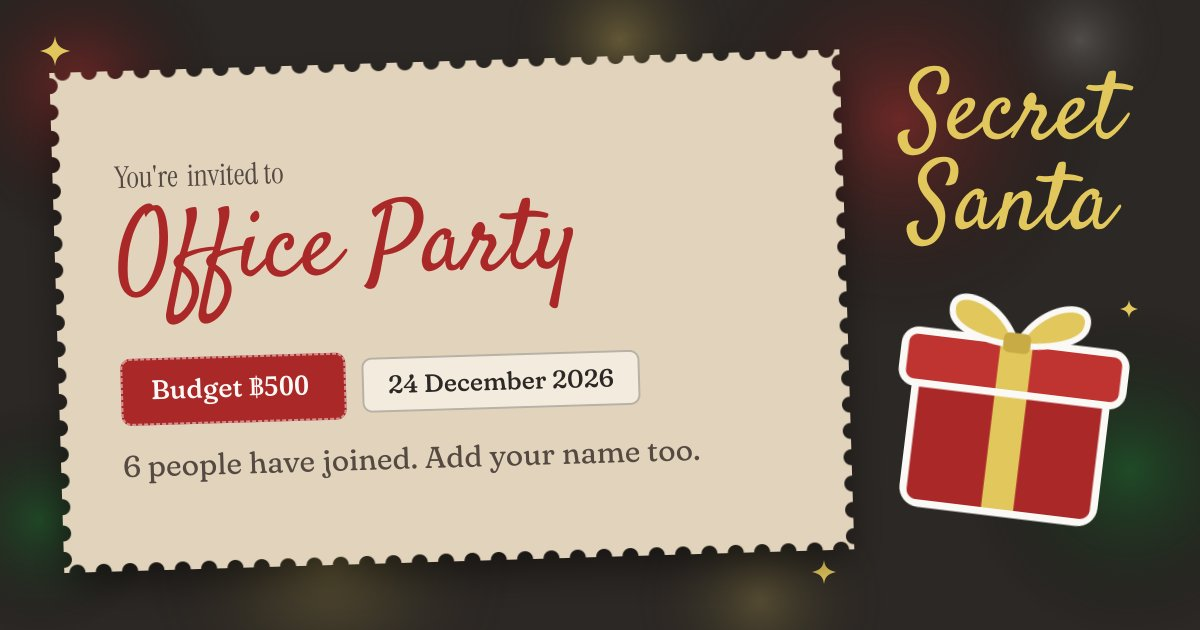
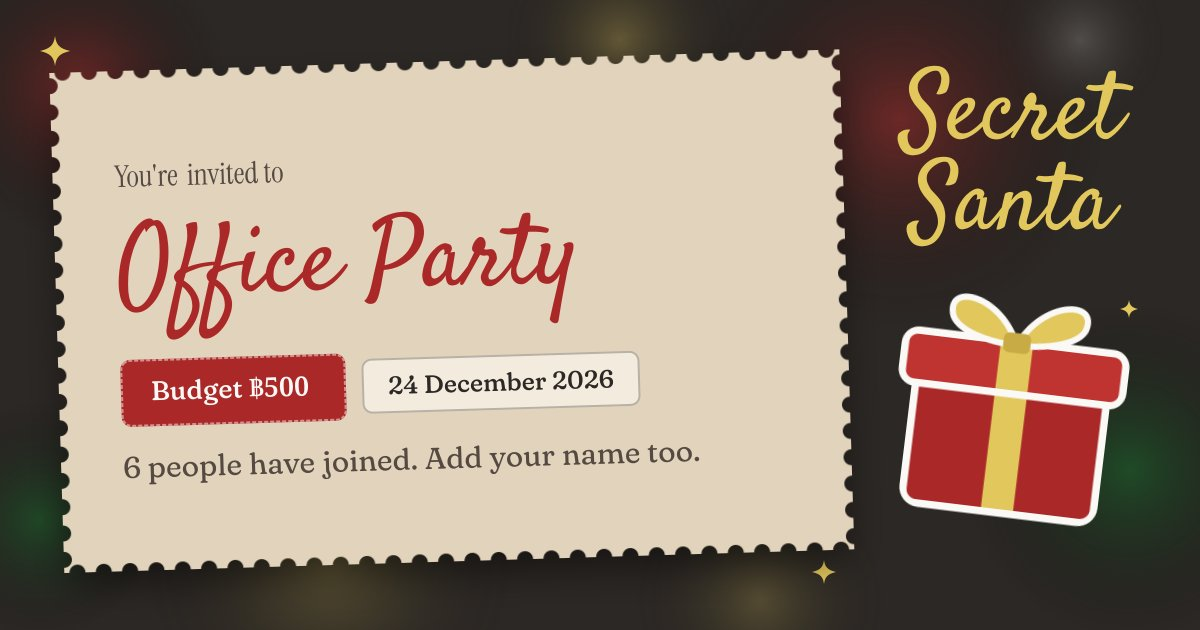
Even space round the invite card's name, and gray out pairs already kept apart
- Invite card: the name had 0-10px above it and 30-65px below, so it sat against "You're invited to".
  Fixed gaps that allow for the script's tall capitals now leave it the same space above and below,
  and a long name ("Chai Apae's / Secret santa #2") splits into two even lines instead of shrinking
  to one thin line with the card empty under it.
- Who shouldn't draw whom: with someone picked in one box, the other box grays out anyone already
  kept apart from them, marked "Already kept apart", and anyone already kept apart from everyone.
- README: the new link card, and the note about the pickers.

diff --git a/src/app/g/[id]/opengraph-image.tsx b/src/app/g/[id]/opengraph-image.tsx
@@ -7,13 +7,38 @@ export const alt = "An invitation to join a Secret Santa group";
 export const size = OG_SIZE;
 export const contentType = "image/png";
 
-/** Long names step down so they stay on the card. Charm draws Thai much larger than Satisfy, so Thai steps down further. */
-const nameSize = (name: string) => (name.length <= 10 ? 124 : name.length <= 16 ? 100 : name.length <= 26 ? 80 : 62) * (hasThai(name) ? 0.6 : 1);
+/**
+ * A long name splits into two lines of about the same length at the space nearest its middle
+ * ("Chai Apae's / Secret santa #2"), as the group page's title does, instead of shrinking to one thin
+ * line with the card empty below it. The card's renderer can't balance lines itself.
+ */
+function nameLines(name: string) {
+  if (name.length <= 16) return [name];
+  const spaces = [...name.matchAll(/ /g)].map((m) => m.index);
+  if (!spaces.length) return [name];
+  const at = spaces.reduce((a, b) => (Math.abs(b - name.length / 2) < Math.abs(a - name.length / 2) ? b : a));
+  return [name.slice(0, at), name.slice(at + 1)];
+}
+
+/** Long lines step down so they stay on the card. Charm draws Thai much larger than Satisfy, so Thai steps down further. */
+const nameSize = (lines: string[], thai: boolean) => {
+  const n = Math.max(...lines.map((l) => l.length));
+  // Two lines a little smaller, so the card keeps its margins.
+  return (n <= 10 ? 124 : n <= 16 ? 100 : n <= 22 ? 80 : 62) * (thai ? 0.6 : 1) * (lines.length > 1 ? 0.9 : 1);
+};
+
+// The script's letters reach well past its line box: Satisfy's capitals up into the line above and
+// Charm's Thai marks higher still. These leave the name the same clear space above as below.
+const GAP_ABOVE = (thai: boolean) => (thai ? 52 : 22);
+const GAP_BELOW = 34;
 
 /** The card a chat app shows when someone sends a group's invite link. */
 export default async function Image({ params }: { params: Promise<{ id: string }> }) {
   const [group, fonts] = await Promise.all([params.then((p) => getPublicGroup(p.id)), ogFonts()]);
   const name = group?.name ?? "Secret Santa";
+  const thai = hasThai(name);
+  const lines = nameLines(name);
+  const nameFont = nameSize(lines, thai);
   const joined = group?.members.length ?? 0;
   const foot = !group
     ? "Draw names. Keep the secret."
@@ -31,10 +56,14 @@ export default async function Image({ params }: { params: Promise<{ id: string }
       <Sparkle size={24} x={812} y={560} />
 
       <Stamp width={790} height={500} style={{ left: 56, top: 62, transform: "rotate(-1.6deg)" }}>
-        <div style={{ position: "absolute", left: 62, top: 54, width: 666, height: 392, display: "flex", flexDirection: "column", justifyContent: "center", gap: 48 }}>
+        <div style={{ position: "absolute", left: 62, top: 54, width: 666, height: 392, display: "flex", flexDirection: "column", justifyContent: "center", gap: GAP_BELOW }}>
           <div style={{ display: "flex", flexDirection: "column" }}>
             <div style={{ fontFamily: "Instrument Serif", fontSize: 30, color: CI.ink2, display: "flex" }}>You're invited to</div>
-            <div style={{ fontFamily: "Satisfy, Charm", fontSize: nameSize(name), lineHeight: 1.08, color: CI.santa, marginTop: hasThai(name) ? 34 : 6, display: "flex" }}>{name}</div>
+            <div style={{ fontFamily: "Satisfy, Charm", fontSize: nameFont, lineHeight: 1.08, color: CI.santa, marginTop: GAP_ABOVE(thai), display: "flex", flexDirection: "column" }}>
+              {lines.map((l) => (
+                <span key={l}>{l}</span>
+              ))}
+            </div>
           </div>
           <div style={{ display: "flex", flexDirection: "column", gap: 22 }}>
             {group && (group.budget !== null || group.date) && (

diff --git a/src/components/PeopleEditor.tsx b/src/components/PeopleEditor.tsx
@@ -53,9 +53,18 @@ export function PeopleEditor({
     );
   }
 
+  const apart = (x: string, y: string) => pairs.some((p) => p.includes(x) && p.includes(y));
+  // Each picker grays out whoever is already kept apart from the person in the other, and anyone
+  // already kept apart from everyone else, since no new pair could include them.
+  const pickable = (other: string) =>
+    byName.map((p) => {
+      const paired = other !== "" && p.id !== other && apart(p.id, other);
+      const full = byName.every((q) => q.id === p.id || apart(p.id, q.id));
+      return { value: p.id, label: p.name, disabled: p.id === other || paired || full, note: paired || full ? t("keptApart") : undefined };
+    });
+
   function addPair() {
-    const exists = pairs.some((p) => p.includes(a) && p.includes(b));
-    if (a && b && a !== b && !exists) onChange(people, [...pairs, [a, b]]);
+    if (a && b && a !== b && !apart(a, b)) onChange(people, [...pairs, [a, b]]);
     setA("");
     setB("");
   }
@@ -126,9 +135,9 @@ export function PeopleEditor({
           <div className="card space-y-3 p-4">
             <p className="px-1 text-[15px] leading-snug text-ink-2">{t("noExclusions")}</p>
             <div className="grid grid-cols-[1fr_1fr_auto] items-center gap-2">
-              <Choice className="min-w-0 pl-3 text-[15px]" value={a} onChange={setA} label={t("personA")} placeholder={t("personA")} options={byName.map((p) => ({ value: p.id, label: p.name, disabled: p.id === b }))} />
-              <Choice className="min-w-0 pl-3 text-[15px]" value={b} onChange={setB} label={t("personB")} placeholder={t("personB")} options={byName.map((p) => ({ value: p.id, label: p.name, disabled: p.id === a }))} />
-              <button type="button" className="press grid size-12 place-items-center rounded-xl bg-accent text-accent-ink disabled:opacity-40" aria-label={t("add")} disabled={!a || !b} onClick={addPair}>
+              <Choice className="min-w-0 pl-3 text-[15px]" value={a} onChange={setA} label={t("personA")} placeholder={t("personA")} options={pickable(b)} />
+              <Choice className="min-w-0 pl-3 text-[15px]" value={b} onChange={setB} label={t("personB")} placeholder={t("personB")} options={pickable(a)} />
+              <button type="button" className="press grid size-12 place-items-center rounded-xl bg-accent text-accent-ink disabled:opacity-40" aria-label={t("add")} disabled={!a || !b || a === b || apart(a, b)} onClick={addPair}>
                 <Plus size={22} {...ICON} aria-hidden />
               </button>
             </div>

diff --git a/src/components/ui.tsx b/src/components/ui.tsx
@@ -320,7 +320,8 @@ export function Choice({
   className,
 }: {
   value: string;
-  options: { value: string; label: string; disabled?: boolean }[];
+  /** A disabled option can say why, in small type at its end. */
+  options: { value: string; label: string; disabled?: boolean; note?: string }[];
   onChange: (value: string) => void;
   label: string;
   placeholder: string;
@@ -353,6 +354,7 @@ export function Choice({
                   }}
                 >
                   <span className="min-w-0 truncate">{o.label}</span>
+                  {o.note && <span className="shrink-0 text-[14px] text-ink-2">{o.note}</span>}
                   {on && <Check size={20} {...ICON} aria-hidden className="shrink-0 text-accent-strong" />}
                 </button>
               </li>

diff --git a/src/lib/i18n.tsx b/src/lib/i18n.tsx
@@ -49,6 +49,7 @@ const en = {
   noExclusions: "Couples or housemates can be kept apart. This works both ways.",
   personA: "Person 1",
   personB: "Person 2",
+  keptApart: "Already kept apart",
   drawNames: "Draw names",
   drawing: "Drawing…",
   shuffling: "Shuffling names…",

diff --git a/DESIGN.md b/DESIGN.md
@@ -266,7 +266,7 @@ A centred script signature with two sparkles at the top of every page but home. 
 Native dialogs on plain paper. Sheets rise from the bottom in 0.45s with a drag handle, a close sticker on the left and an optional confirm on the right. Alerts scale in over 0.35s at 330px wide at most. Their Cancel takes only its word's room and the action ticket the rest, so a two-word action like "Draw names" stays on one line, clear of its notches.
 
 ### Link Preview
-Every invite link unfurls in chat apps as a stamp card on the lights: "You're invited to", the group name in red script, the budget ticket and date tag, and how many people have joined. The site's own link gets the same card with the promise ticket. Both are drawn in `src/lib/og.tsx`, and the organiser sees the invite card above the link.
+Every invite link unfurls in chat apps as a stamp card on the lights: "You're invited to", the group name in red script (a long name splits into two even lines rather than shrinking, with the same clear space above and below it), the budget ticket and date tag, and how many people have joined. The site's own link gets the same card with the promise ticket. Both are drawn in `src/lib/og.tsx`, and the organiser sees the invite card above the link.
 
 ### Gift and Reveal
 An original die-cut present that bobs, shakes when tapped, then loses its lid while a stamp-edged paper tag swings out on a gold string with the drawn name in red script. Calendar-page tiles count down to the party in Salsa, with a red header over a bright paper face. Snow falls slowly on every page. The drawn name writes itself onto the tag, and so does a group's name the first time a phone opens it, before its tickets drop and its cards rise in turn (only opacity, translate and scale move, so cards keep their tilt). When the organiser draws, everyone's name tag pops up around the present and drops into it, the present shakes, and confetti bursts. Whatever arrives while a page is open moves in once its list is on screen: a name tag drops into Who's in with a small swing, a saved wish drops onto the list in the same way beside a tick that pops and fades, a message pops up into the thread while the one you sent flies off as a sealed envelope, and the guess results flip over like cards, past square and back, one after another, the first time a phone sees them. Reduced motion turns all of this off.

diff --git a/README.md b/README.md
@@ -42,7 +42,7 @@ The screenshots use a demo group with made-up names.
 - **One invite link** for the whole group, with Copy, Share (on phones) and a QR code. You never type a list of names.
 - **An invite card:** send the link in LINE, Messenger or WhatsApp and it shows a card with the group name, budget, date and how many have joined.
 - **Draw when you're ready:** see who has joined, then draw once at least 3 people are in.
-- **Exclusions:** keep couples or housemates from drawing each other.
+- **Exclusions:** keep couples or housemates from drawing each other. Pairs you've already kept apart are grayed out in the pickers.
 - **Budget, party date and a note** for everyone: a big budget field with shortcuts, the site's own calendar, and a live countdown.
 - **Change the group later:** add or remove people and everyone gets a new name. Renaming someone keeps the draw.
 - **See who's ready:** who has joined and who has opened their name, updating by itself every few seconds.
